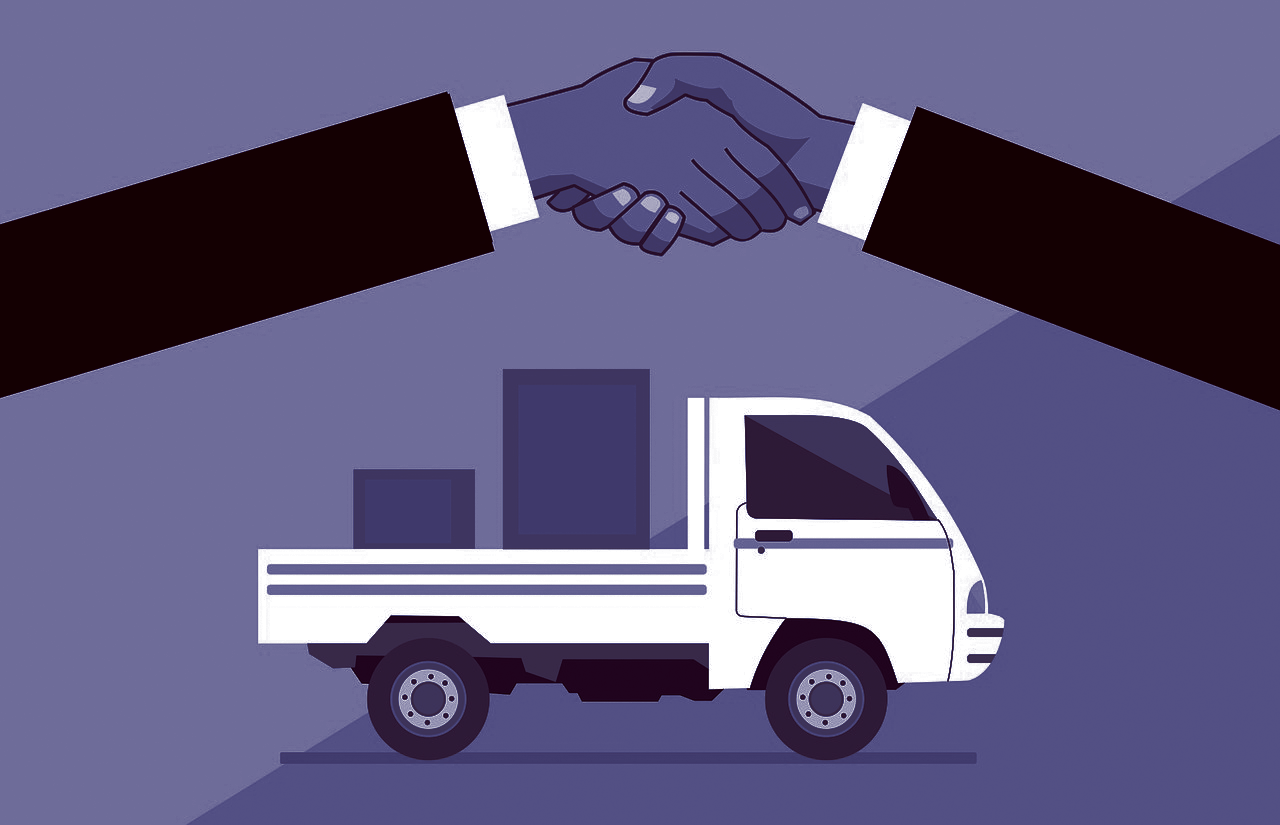
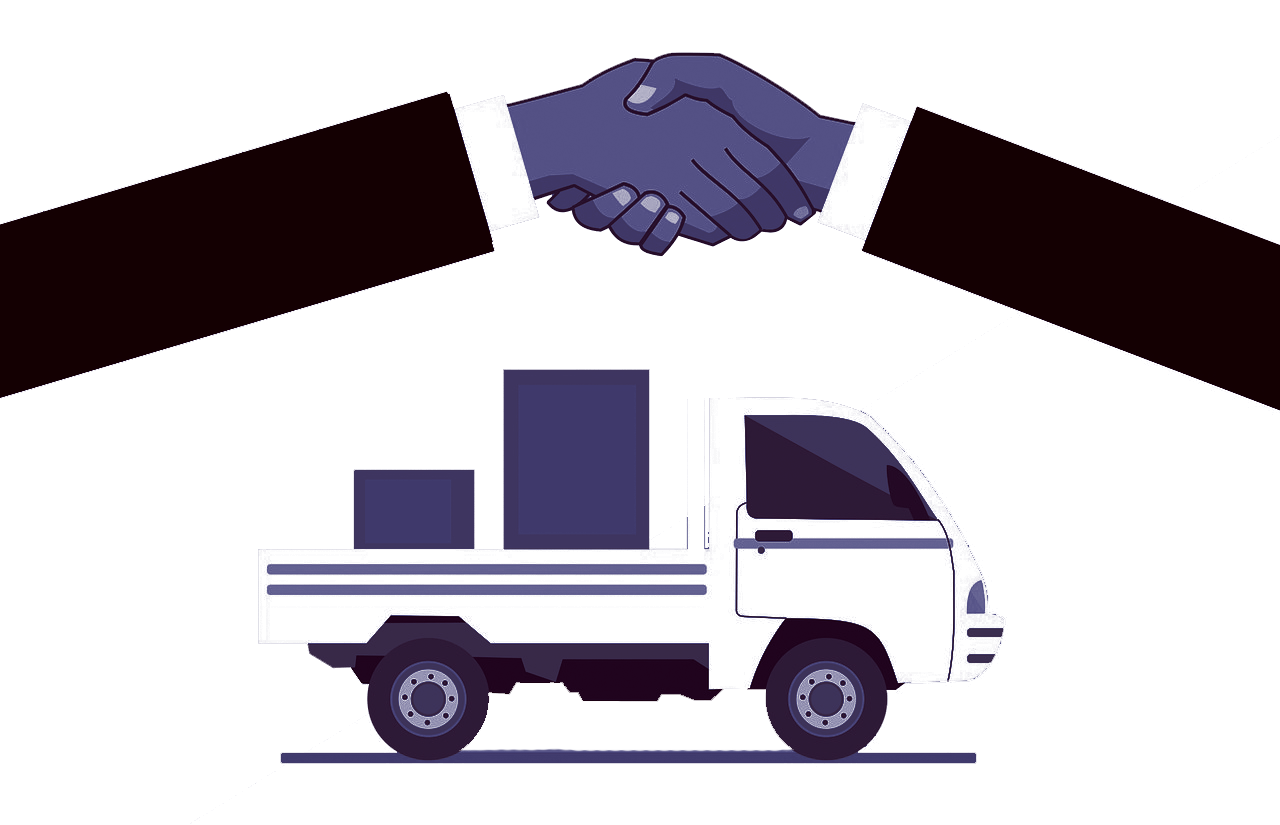
arreglo de fondo de imagen principal

diff --git a/wranglerfoods/index.html b/wranglerfoods/index.html
@@ -76,7 +76,7 @@
           </div>
         </div>
         <div class="col-lg-6 order-1 order-lg-2 hero-img" data-aos="zoom-in" data-aos-delay="200">
-          <img src="assets/img/business.png" class="img-fluid animated" alt="">
+          <img src="assets/img/businesscolor.png" class="img-fluid animated" alt="">
         </div>
       </div>
     </div>
